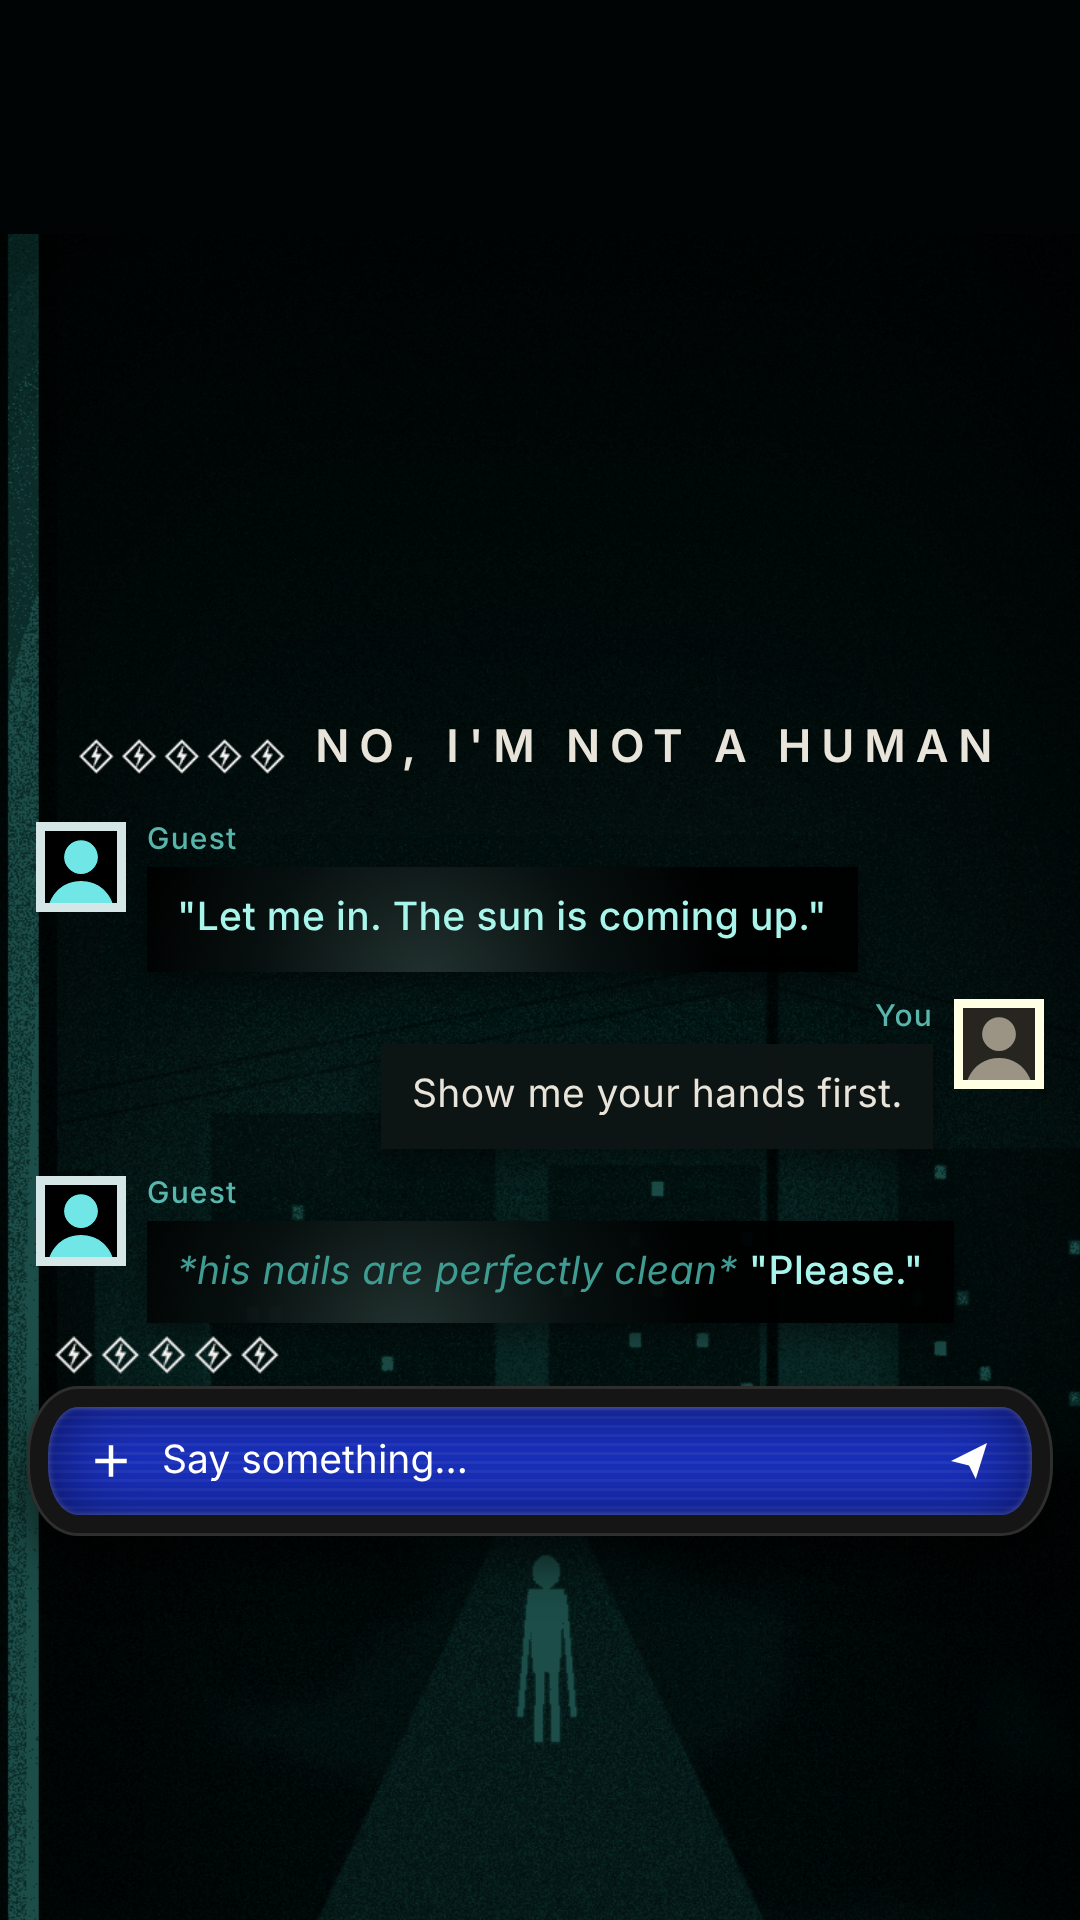
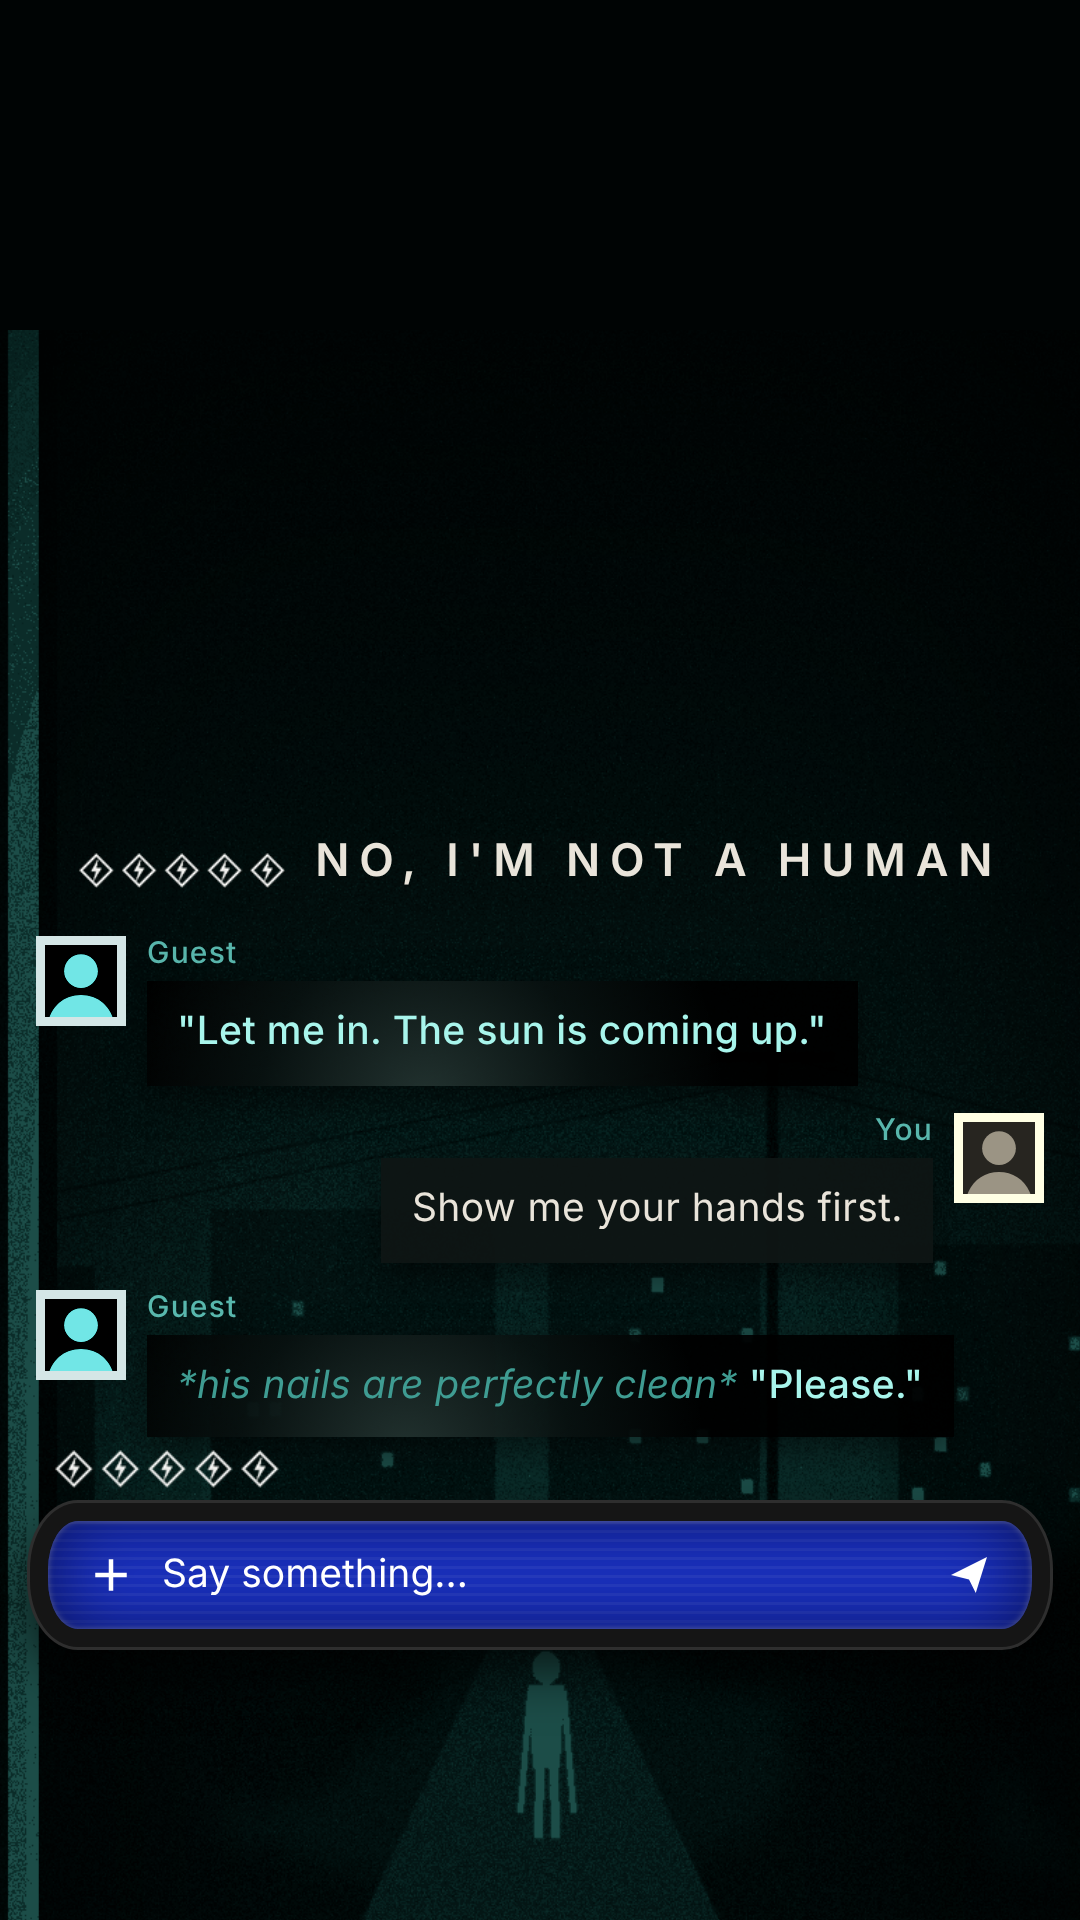
Hub covers: move chat further down to fit the card crop
Claude-Session: https://claude.ai/code/session_011AdgnKtmEQrsYZ6duuAFrr

diff --git a/tools/hub-previews.js b/tools/hub-previews.js
@@ -1,5 +1,5 @@
 // Обложки тем для Tavo Hub в формате 9:16. Hub показывает в карточке и на
-// странице темы нижнюю часть картинки (примерно 40–90% высоты), поэтому чат
+// странице темы нижнюю часть картинки (примерно 44–97% высоты), поэтому чат
 // с настоящим CSS темы и маленький логотип стоят внизу, сверху только фон.
 // Для каждой темы две картинки: покой и генерация.
 //
@@ -30,7 +30,7 @@ const THEMES = [
   },
   {
     dir: 'not-a-human',
-    bg: 'center 78px / 420px auto',
+    bg: 'center 110px / 420px auto',
     name: 'Guest',
     title: `<img src="ASSETS/energy-5.png" style="height:12px">
       <span style="font:600 15px Inter,sans-serif;color:#e9e4da;letter-spacing:.22em;white-space:nowrap">NO, I'M NOT A HUMAN</span>`,
@@ -102,7 +102,7 @@ function page(t, m, generating) {
     html,body{margin:0}
     body{width:${W}px;height:${H}px;overflow:hidden;display:flex;flex-direction:column;
       background:${rgba(m.background.color)} url("${bg}") ${t.bg} no-repeat;font-family:Inter,"Roboto",sans-serif}
-    .head{height:262px;box-sizing:border-box;display:flex;align-items:flex-end;justify-content:center;
+    .head{height:300px;box-sizing:border-box;display:flex;align-items:flex-end;justify-content:center;
       gap:10px;padding-bottom:4px}
     .top{display:flex;flex-direction:column}
     .list{flex:1;padding:12px 12px 0;display:flex;flex-direction:column;gap:9px}
